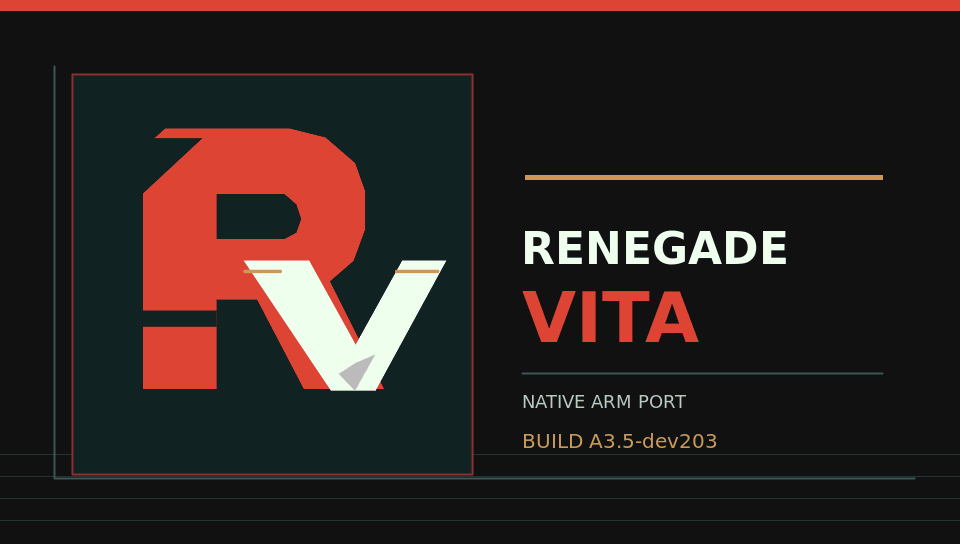
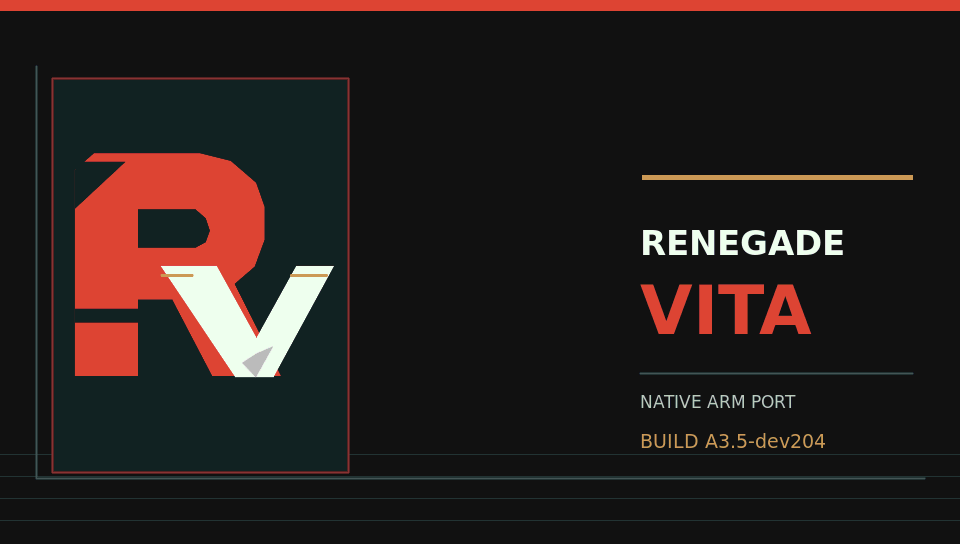
Refine LiveArea composition and verify Dev204 in Vita3K

diff --git a/tools/verify_public_docs.py b/tools/verify_public_docs.py
@@ -20,6 +20,7 @@ DOCUMENTS = (
     "CODE_OF_CONDUCT.md",
     "docs/ARCHITECTURE.md",
     "docs/BUILDING.md",
+    "docs/BRANDING.md",
     "docs/CONTROLS.md",
     "docs/CURRENT_STATUS.md",
     "docs/DEMO_CAPTURE.md",

diff --git a/reports/DEV204_LIVEAREA_IDENTITY.md b/reports/DEV204_LIVEAREA_IDENTITY.md
@@ -1,0 +1,32 @@
+# Dev204 LiveArea identity
+
+## Scope
+
+Dev204 packages an original R/V insignia, application icon, launch image,
+LiveArea background, and gate. The background and gate place the candidate
+number where Vita3K's Start control does not cover it. No EA or Westwood logo
+artwork or retail data was used. Dev203 was the first package with artwork;
+Dev204 supersedes its crowded initial LiveArea composition without changing
+the game runtime.
+
+## Evidence
+
+| Gate | Result |
+| --- | --- |
+| Focused tests | 177 tests passed. |
+| ARM package | Fast ELF, SELF, VPK identity, and seven-entry retail-exclusion checks passed. This is not a canonical build. |
[2 lines of base64/hex data omitted]
+| Vita3K install | Installed title files matched the VPK, including all five artwork files. Receipt: local `build/vita3k-backups/A3.5-dev204-setup-20260927T053840890405Z/setup-receipt.json`. |
[1 lines of base64/hex data omitted]
+
+The visual check opened the installed Vita3K title presentation. An intro
+frame appeared during navigation, but no gameplay, natural exit, or
+performance result is claimed. Vita3K was stopped after capture. Physical
+Vita/PSTV LiveArea appearance and canonical package acceptance remain pending.
+
+## References
+
+- [VitaSDK VPK resource packaging](https://github.com/vitasdk/vita-toolchain/blob/master/cmake_toolchain/vita.cmake)
+- [VitaSDK sample LiveArea layout](https://github.com/vitasdk/samples/blob/master/hello_cpp_world/Makefile)
+- [Project-authored artwork and build rules](../docs/BRANDING.md)

diff --git a/docs/BRANDING.md b/docs/BRANDING.md
@@ -26,6 +26,10 @@ background and gate through Vita's `a1` LiveArea layout. All four PNGs and the
 template are packaged alongside `eboot.bin` and `param.sfo`; no retail asset is
 included.
 
+The [Dev204 Vita3K LiveArea capture](media/vita3k/dev204-livearea.png) confirms
+that this candidate's background, gate, and version stamp render in the
+emulator. It is not physical-Vita visual acceptance.
+
 Generate a local preview with:
 
 ```bash
@@ -35,8 +39,8 @@ python3 tools/render_livearea.py --candidate A3.5-devNN \
 
 ImageMagick's `convert` is required. The renderer validates dimensions and
 indexed PNG color type. The identity and package checks reject missing or
-mis-sized Vita images. Visual appearance still requires Vita3K and physical
-Vita review; a successful package check alone does not prove LiveArea display.
+mis-sized Vita images. Visual appearance still requires physical Vita review;
+a successful package check alone does not prove LiveArea display.
 
 ## Sources
 

diff --git a/CHANGELOG.md b/CHANGELOG.md
@@ -2,6 +2,17 @@
 
 This changelog records public-facing source, process, and evidence changes. It does not turn a build into a physical acceptance claim.
 
+## A3.5-dev204 - 2026-09-27
+
+- Added an original R/V identity and version-stamped Vita LiveArea artwork.
+  Dev204 refines the first Dev203 composition so the gate and background remain
+  readable around Vita3K's Start control.
+- Passed 177 focused tests, fast ARM package, and Vita3K installation/hash
+  checks. A bounded Vita3K capture shows the title's LiveArea; physical Vita
+  appearance, canonical build acceptance, and gameplay remain unverified.
+- See the [Dev204 evidence record](reports/DEV204_LIVEAREA_IDENTITY.md) and
+  [artwork source/provenance](docs/BRANDING.md).
+
 ## A3.5-dev202 - 2026-09-27
 
 - Routed original loading-backdrop selection by full-port mode: Practice uses
